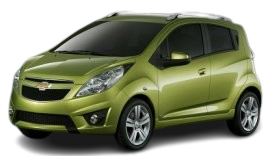
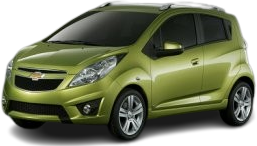
파비콘 이미지 추가 및 설정 / 자동차 이미지 여백 없게 맞추기 / 예약페이지 css 및 박스 추가

diff --git a/src/main/webapp/css/reservation.css b/src/main/webapp/css/reservation.css
@@ -44,7 +44,7 @@
 /* 지역 박스 */
 .rv-locationAndDateBox-location {
 	margin-left: 6%;
-	width: 20%;
+	width: 45%;
 	height: 45px;
 	border-radius: 5px;
 	background-color: #F2F3F3;
@@ -53,7 +53,7 @@
 
 /* 날짜 박스 */
 .rv-locationAndDateBox-date {
-	width: 53%;
+	width: 28%;
 	height: 45px;
 	border-radius: 5px;
 	background-color: #F3F3F3;
@@ -121,7 +121,7 @@
 
 .rv-carInfoBox-Box-imgBox {
 	width: 50%;
-	padding: 10px;
+	padding: 20px;
 	border-radius: 10px;
 	background-color: white;
 	display: flex;
@@ -169,8 +169,35 @@
 	color: #444444;
 }
 
-.rv-carInfoBox-Box-sumRentAndInsurancePrice1 {
-	
+.rv-carInfoBox-Box-sumRentAndInsurancePrice {
+	width: 100%;
+	height: 20%;
+	border: 1px solid black;
+	display: flex;
+	flex-flow: row nowrap;
+	justify-content: space-between;
+}
+
+.rv-carInfoBox-Box-insuranceText{
+	width: 30%;
+	border: 1px solid black;
+}
+
+.rv-carInfoBox-Box-sumRentAndInsurancePrice-text{
+	width: 50%;
+	border: 1px solid black;
+}
+
+.rv-carInfoBox-Box-sumRentAndInsurancePrice2 {
+	width: 100%;
+	height: 20%;
+	border: 1px solid black;
+}
+
+.rv-carInfoBox-Box-sumRentAndInsurancePrice3 {
+	width: 100%;
+	height: 20%;
+	border: 1px solid black;
 }
 
 /* 자동차 정보 박스 스크롤바 없애기 */
@@ -568,4 +595,9 @@ li {
 	/* 테두리 그림자  */
 	transform: translateY(-50%);
 	/* 모듈창열었을때 위치설정 가운데로  */
+}
+
+/* selectBox의 z-index를 다른 필터들보다 높게 설정 */
+[data-role="selectBox"] {
+    z-index: 1000; /* 적절한 숫자로 설정, 다른 필터보다 큰 값을 사용합니다. */
 }

diff --git a/src/main/webapp/js/reservation.js b/src/main/webapp/js/reservation.js
@@ -76,7 +76,7 @@ function selectOpt() {
 
 /* 렌더링 시 옵션의 첫번째 항목 기본 선택 */
 function selectFirst() {
-	const firstValue = opts[0].innerHTML;
+	const firstValue = '--자동차 모델을 선택하세요--';
 	values.innerHTML = `${firstValue}`
 }
 
@@ -99,8 +99,24 @@ $(document).ready(function() {
 		$(this).addClass('selected');
 		// 다른 asanList 클래스에서 selected 클래스 제거
 		$('.asanList,.cheonanList').not(this).removeClass('selected');
-		if ('.asanList,.cheonanList' = 'selected') {
-			$('location-modal-check-Btn').style.backgroundColor = "#0D6FFC";
+		if ($('.asanList,.cheonanList').hasClass('selected')) {
+			$(".location-modal-check-Btn").css("background-color", "#0D6FFC");
 		}
+	});
+});
+
+//모달 다음 확인
+document.addEventListener("DOMContentLoaded", function() {
+	// 다음버튼 클릭 시 이벤트 처리
+	document.querySelector('.location-modal-check-Btn').addEventListener('click', function() {
+		// 대여장소선택을 반납장소선택으로 변경
+
+		document.querySelector('.location-modal-header-text').innerText = '반납장소선택';
+
+		// 다음을 확인으로 변경
+		document.querySelector('.location-modal-check-Btn').innerText = '확인';
+
+		// 여기에 추가로 원하는 기능을 구현할 수 있습니다.
+		// 예를 들어, 다음을 누를 때마다 특정 동작이 일어나도록 할 수 있습니다.
 	});
 });
